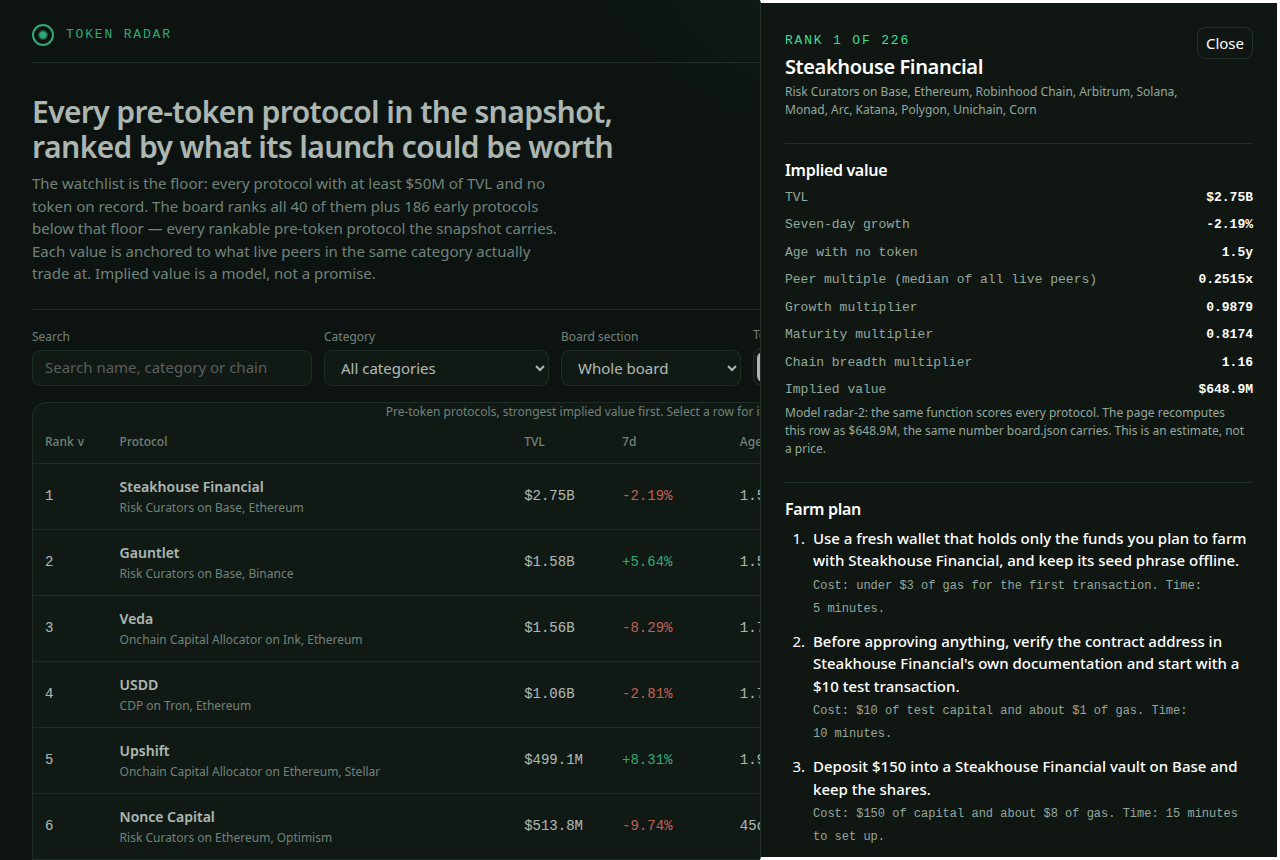
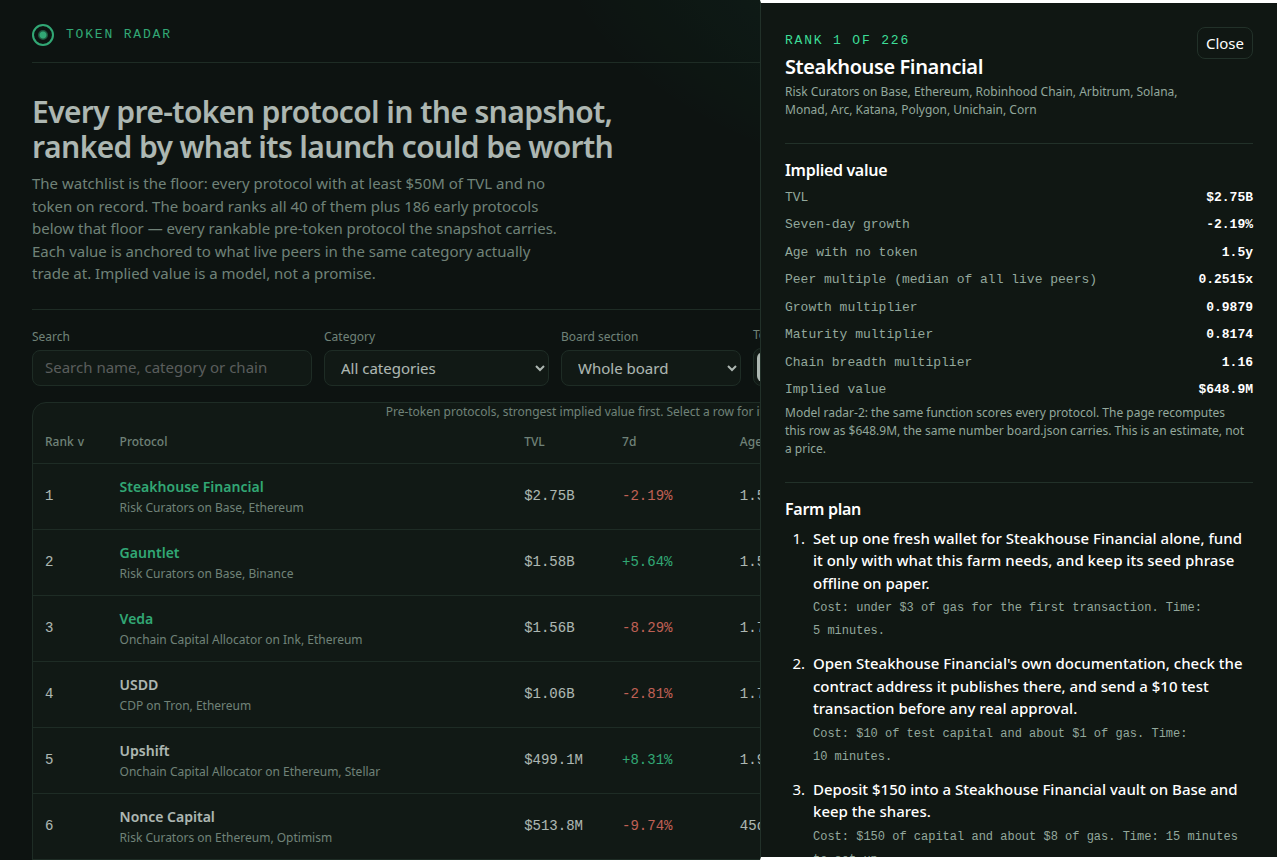
Rework snapshot parsing and board checks into helpers, refresh farm plan wording, add coverage note

diff --git a/lib/model.ts b/lib/model.ts
@@ -425,12 +425,12 @@ export function farmSteps(p: SnapshotProtocol, age: number | null): FarmStep[] {
       };
   return [
     {
-      text: `Use a fresh wallet that holds only the funds you plan to farm with ${p.name}, and keep its seed phrase offline.`,
+      text: `Set up one fresh wallet for ${p.name} alone, fund it only with what this farm needs, and keep its seed phrase offline on paper.`,
       cost: 'under $3 of gas for the first transaction',
       time: '5 minutes',
     },
     {
-      text: `Before approving anything, verify the contract address in ${p.name}'s own documentation and start with a $10 test transaction.`,
+      text: `Open ${p.name}'s own documentation, check the contract address it publishes there, and send a $10 test transaction before any real approval.`,
       cost: '$10 of test capital and about $1 of gas',
       time: '10 minutes',
     },
@@ -446,12 +446,12 @@ export function farmSteps(p: SnapshotProtocol, age: number | null): FarmStep[] {
       time: '10 minutes a week',
     },
     {
-      text: `Hold the position for at least ${hold} days so the activity is counted in more than one snapshot, and check the protocol's points or rewards page every week.`,
+      text: `Keep the position open for at least ${hold} days, across more than one weekly snapshot, and look at the protocol's points or rewards page every week while you wait.`,
       cost: `the $${capital} stays in the position`,
       time: `${hold} days`,
     },
     {
-      text: `When a token or points conversion is announced, claim only from the link ${p.name} itself publishes, then write the wallet, the dates and every transaction in a farm log so you can unwind the position.`,
+      text: `If a token or points conversion is announced, claim only through the link ${p.name} itself publishes, then record the wallet, the dates and every transaction in a farm log so the position can be unwound cleanly.`,
       cost: 'no fee to check, and never pay to claim',
       time: '15 minutes',
     },
@@ -523,6 +523,37 @@ export function buildRadar(snapshot: Snapshot, model: ModelConstants = MODEL): {
   return { board, radar };
 }
 
+/** A string field read leniently: the string itself, or null for anything else. */
+function stringOrNull(value: unknown): string | null {
+  return typeof value === 'string' ? value : null;
+}
+
+/** A numeric field read leniently: a finite number, or null for anything else. */
+function numberOrNull(value: unknown): number | null {
+  return typeof value === 'number' && Number.isFinite(value) ? value : null;
+}
+
+/** One protocol record out of the snapshot's array, with every optional field normalised. */
+function parseProtocol(v: unknown, i: number): SnapshotProtocol {
+  if (typeof v !== 'object' || v === null || Array.isArray(v)) throw new SnapshotError(`snapshot.json's protocol ${i} is not an object`);
+  const p = v as Record<string, unknown>;
+  if (typeof p.slug !== 'string' || typeof p.name !== 'string' || typeof p.tvl_usd !== 'number' || !Number.isFinite(p.tvl_usd)) {
+    throw new SnapshotError(`snapshot.json's protocol ${i} lacks a slug, a name or a TVL`);
+  }
+  return {
+    slug: p.slug,
+    name: p.name,
+    category: stringOrNull(p.category),
+    chains: Array.isArray(p.chains) ? p.chains.filter((c): c is string => typeof c === 'string') : [],
+    tvl_usd: p.tvl_usd,
+    change_7d: numberOrNull(p.change_7d),
+    mcap_usd: numberOrNull(p.mcap_usd),
+    listed_at: stringOrNull(p.listed_at),
+    gecko_id: stringOrNull(p.gecko_id),
+    symbol: stringOrNull(p.symbol),
+  };
+}
+
 /** The snapshot out of a file's text, refused unless it is the shape the model scores. */
 export function parseSnapshot(text: string): Snapshot {
   let raw: unknown;
@@ -538,52 +569,67 @@ export function parseSnapshot(text: string): Snapshot {
   if (typeof o.floor_usd !== 'number' || !Number.isSafeInteger(o.floor_usd) || o.floor_usd <= 0) throw new SnapshotError('snapshot.json has no floor_usd');
   if (!Array.isArray(o.protocols)) throw new SnapshotError('snapshot.json has no protocols array');
   if (!Array.isArray(o.watchlist) || o.watchlist.some((s) => typeof s !== 'string')) throw new SnapshotError('snapshot.json has no watchlist of slugs');
-  const protocols = o.protocols.map((v, i) => {
-    if (typeof v !== 'object' || v === null || Array.isArray(v)) throw new SnapshotError(`snapshot.json's protocol ${i} is not an object`);
-    const p = v as Record<string, unknown>;
-    if (typeof p.slug !== 'string' || typeof p.name !== 'string' || typeof p.tvl_usd !== 'number' || !Number.isFinite(p.tvl_usd)) {
-      throw new SnapshotError(`snapshot.json's protocol ${i} lacks a slug, a name or a TVL`);
-    }
-    return {
-      slug: p.slug,
-      name: p.name,
-      category: typeof p.category === 'string' ? p.category : null,
-      chains: Array.isArray(p.chains) ? p.chains.filter((c): c is string => typeof c === 'string') : [],
-      tvl_usd: p.tvl_usd,
-      change_7d: typeof p.change_7d === 'number' && Number.isFinite(p.change_7d) ? p.change_7d : null,
-      mcap_usd: typeof p.mcap_usd === 'number' && Number.isFinite(p.mcap_usd) ? p.mcap_usd : null,
-      listed_at: typeof p.listed_at === 'string' ? p.listed_at : null,
-      gecko_id: typeof p.gecko_id === 'string' ? p.gecko_id : null,
-      symbol: typeof p.symbol === 'string' ? p.symbol : null,
-    };
-  });
   return {
     as_of: o.as_of,
     source: o.source,
     floor_usd: o.floor_usd,
-    protocols,
+    protocols: o.protocols.map(parseProtocol),
     watchlist: o.watchlist as string[],
   };
 }
 
-/** Why a board is not one the gate will take, or null: coverage, ranks, order, one shared implied value, and farm steps. */
-export function boardIssue(board: BoardRow[], snapshot: Snapshot): string | null {
+/** The coverage issue, if any: every watchlist slug must sit on the board. */
+function coverageIssue(board: BoardRow[], snapshot: Snapshot): string | null {
   const slugs = new Set(board.map((r) => r.slug));
   const missing = snapshot.watchlist.filter((s) => !slugs.has(s));
-  if (missing.length > 0) return `the board misses ${missing.length} watchlist slug${missing.length === 1 ? '' : 's'}: ${missing.slice(0, 5).join(', ')}`;
+  if (missing.length === 0) return null;
+  return `the board misses ${missing.length} watchlist slug${missing.length === 1 ? '' : 's'}: ${missing.slice(0, 5).join(', ')}`;
+}
+
+/** The ranking issue, if any: ranks are exactly 1..n and implied value never rises down the board. */
+function rankingIssue(board: BoardRow[]): string | null {
   const ranks = board.map((r) => r.rank).sort((a, b) => a - b);
   for (let i = 0; i < ranks.length; i++) if (ranks[i] !== i + 1) return `rank ${i + 1} is ${ranks[i]}`;
-  for (let i = 1; i < board.length; i++) if (board[i]!.implied_value_usd > board[i - 1]!.implied_value_usd) return `row ${i + 1} outranks row ${i} on implied value`;
+  for (let i = 1; i < board.length; i++) {
+    if (board[i]!.implied_value_usd > board[i - 1]!.implied_value_usd) return `row ${i + 1} outranks row ${i} on implied value`;
+  }
   if (board.length >= 2 && board[0]!.implied_value_usd === board[board.length - 1]!.implied_value_usd) {
     return `all ${board.length} rows share the same implied value $${board[0]!.implied_value_usd}: a board that ranks nothing by value is not a ranking`;
   }
+  return null;
+}
+
+/** One row's own issue, if any: a sane implied value and a farm plan inside the gate's shape. */
+function rowIssue(r: BoardRow): string | null {
+  const steps = r.farm_steps;
+  if (steps.length < 3 || steps.length > 12) return `${r.slug} has ${steps.length} farm steps`;
+  for (const s of steps) if (s.length < 20 || s.length > 600) return `${r.slug} has a farm step of ${s.length} characters`;
+  if (!Number.isSafeInteger(r.implied_value_usd) || r.implied_value_usd <= 0) return `${r.slug} has implied value ${r.implied_value_usd}`;
+  return null;
+}
+
+/** Why a board is not one the gate will take, or null: coverage first, then the ranking, then each row. */
+export function boardIssue(board: BoardRow[], snapshot: Snapshot): string | null {
+  const coverage = coverageIssue(board, snapshot);
+  if (coverage !== null) return coverage;
+  const ranking = rankingIssue(board);
+  if (ranking !== null) return ranking;
   for (const r of board) {
-    const steps = r.farm_steps;
-    if (steps.length < 3 || steps.length > 12) return `${r.slug} has ${steps.length} farm steps`;
-    for (const s of steps) if (s.length < 20 || s.length > 600) return `${r.slug} has a farm step of ${s.length} characters`;
-    if (!Number.isSafeInteger(r.implied_value_usd) || r.implied_value_usd <= 0) return `${r.slug} has implied value ${r.implied_value_usd}`;
+    const issue = rowIssue(r);
+    if (issue !== null) return issue;
   }
   return null;
+}
+
+/** The headline figures for a finished board and the snapshot it came from. */
+export function summarizeBoard(board: BoardRow[], snapshot: Snapshot): BoardSummary {
+  const watchlist = new Set(snapshot.watchlist);
+  return {
+    watchlist_size: snapshot.watchlist.length,
+    board_size: board.length,
+    early_size: board.filter((r) => !watchlist.has(r.slug)).length,
+    live_size: liveRows(snapshot).length,
+  };
 }
 
 /** A compact data.js: the dashboard's whole dataset as one script, no fetch and no network. */

diff --git a/dashboard/app.js b/dashboard/app.js
@@ -115,13 +115,13 @@
       ? { text: p.name + ' also runs on ' + p.chains[1] + ': repeat the position there with $' + half + ' so the farm is not a single-chain snapshot.', cost: 'about $' + half + ' of extra capital plus bridge and gas fees of about $5', time: '20 minutes' }
       : { text: 'Deepen the ' + chain + ' position once after two weeks: add 25% more capital if the first position settled without issues.', cost: 'about $' + Math.round(capital / 4) + ' of extra capital and $2 of gas', time: '10 minutes' };
     return [
-      { text: 'Use a fresh wallet that holds only the funds you plan to farm with ' + p.name + ', and keep its seed phrase offline.', cost: 'under $3 of gas for the first transaction', time: '5 minutes' },
-      { text: "Before approving anything, verify the contract address in " + p.name + "'s own documentation and start with a $10 test transaction.", cost: '$10 of test capital and about $1 of gas', time: '10 minutes' },
+      { text: 'Set up one fresh wallet for ' + p.name + ' alone, fund it only with what this farm needs, and keep its seed phrase offline on paper.', cost: 'under $3 of gas for the first transaction', time: '5 minutes' },
+      { text: "Open " + p.name + "'s own documentation, check the contract address it publishes there, and send a $10 test transaction before any real approval.", cost: '$10 of test capital and about $1 of gas', time: '10 minutes' },
       { text: actionFor(p, capital, chain), cost: '$' + capital + ' of capital and about $' + (capital >= 150 ? 8 : 4) + ' of gas', time: '15 minutes to set up' },
       breadth,
       { text: weeklyActionFor(p), cost: 'about $2 of gas a week', time: '10 minutes a week' },
-      { text: "Hold the position for at least " + hold + " days so the activity is counted in more than one snapshot, and check the protocol's points or rewards page every week.", cost: 'the $' + capital + ' stays in the position', time: hold + ' days' },
-      { text: 'When a token or points conversion is announced, claim only from the link ' + p.name + ' itself publishes, then write the wallet, the dates and every transaction in a farm log so you can unwind the position.', cost: 'no fee to check, and never pay to claim', time: '15 minutes' }
+      { text: "Keep the position open for at least " + hold + " days, across more than one weekly snapshot, and look at the protocol's points or rewards page every week while you wait.", cost: 'the $' + capital + ' stays in the position', time: hold + ' days' },
+      { text: 'If a token or points conversion is announced, claim only through the link ' + p.name + ' itself publishes, then record the wallet, the dates and every transaction in a farm log so the position can be unwound cleanly.', cost: 'no fee to check, and never pay to claim', time: '15 minutes' }
     ].map(stepText);
   }
 
@@ -370,6 +370,16 @@
     }
   }
 
+  // What the board covers, stated once at the foot of the page: the watchlist is complete by
+  // construction, and the early rows are everything rankable below its floor, not a sample.
+  function coverageNote() {
+    return el('section', { class: 'panel model' },
+      el('h2', { text: 'Coverage' }),
+      el('p', { class: 'sub', text: 'The snapshot names ' + DATA.watchlist_size + ' watchlist protocols; all ' + DATA.watchlist_size + ' are ranked above. Below the $' + Math.round(DATA.floor_usd / 1e6) + 'M floor the snapshot carries ' + DATA.early_size + ' more pre-token protocols that can be ranked — not an exchange, not a versioned pool of another protocol — and every one of them is on this board too. Protocols that already trade are never ranked here: their market cap is a fact, and the model only prices what has no price yet.' }),
+      el('p', { class: 'sub', text: 'Press / anywhere on the page to jump to the search box. Select any row for its model breakdown and farm plan.' })
+    );
+  }
+
   function render() {
     app.textContent = '';
     var shell = el('div', { class: 'shell' });
@@ -378,6 +388,7 @@
     shell.appendChild(controls());
     shell.appendChild(state.tab === 'pre-token' ? boardTable() : liveTable());
     if (state.tab === 'pre-token') shell.appendChild(modelPanel());
+    if (state.tab === 'pre-token') shell.appendChild(coverageNote());
     app.appendChild(shell);
     app.setAttribute('aria-busy', 'false');
     if (!dialog.isConnected) app.appendChild(dialog);
@@ -388,5 +399,9 @@
   render();
   window.addEventListener('keydown', function (e) {
     if (e.key === 'Escape' && dialog.open) dialog.close();
+    if (e.key === '/' && !dialog.open) {
+      var q = document.getElementById('q');
+      if (q && document.activeElement !== q) { e.preventDefault(); q.focus(); }
+    }
   });
 })();

diff --git a/main.ts b/main.ts
@@ -19,7 +19,7 @@
 import { copyFileSync, existsSync, mkdirSync, readFileSync, readdirSync, statSync, writeFileSync } from 'node:fs';
 import { join } from 'node:path';
 import { fileURLToPath } from 'node:url';
-import { boardIssue, buildRadar, dataScript, parseSnapshot } from './lib/model.ts';
+import { boardIssue, buildRadar, dataScript, parseSnapshot, summarizeBoard } from './lib/model.ts';
 import { buildDossier } from './vendor/makefun-board.ts';
 
 const here = fileURLToPath(new URL('.', import.meta.url));
@@ -88,7 +88,8 @@ for (const name of shots) {
 // The dossier is written last: the scorer rebuilds it from this /output and compares bytes.
 writeFileSync(join(out, 'dossier.json'), buildDossier(out, { text_max_bytes: TEXT_MAX_BYTES, screenshots: SCREENSHOT_CAPS, dashboard: { max_files: 400, max_bytes: 4_194_304 } }));
 
+const summary = summarizeBoard(board, snapshot);
 process.stdout.write(
-  `token radar: ${snapshot.protocols.length} protocols, ${snapshot.watchlist.length} on the watchlist, ${board.length} rows scored (${radar.early_size} early, ${radar.live_size} live set aside)\n` +
+  `token radar: ${snapshot.protocols.length} protocols, ${summary.watchlist_size} on the watchlist, ${summary.board_size} rows scored (${summary.early_size} early, ${summary.live_size} live set aside)\n` +
     `token radar: wrote ${join(out, 'board.json')}, ${join(out, 'data.js')}, ${join(out, 'dashboard')} (3 files), ${join(out, 'screenshots')} (${shots.length} images) and ${join(out, 'dossier.json')}\n`,
 );

diff --git a/dashboard/app.css b/dashboard/app.css
@@ -139,6 +139,21 @@ tbody tr[data-selected="true"] { background: color-mix(in srgb, var(--accent) 8%
 .steps b { display: block; font-weight: 500; }
 .cost { color: var(--muted); font-size: 12px; font-family: var(--font-num); }
 
+/* The radar's own touches: a sweep highlight on the first rows of the current view, a drawer that
+   slides in, and small reading comforts that cost no extra palette. */
+::selection { background: rgba(61, 220, 151, 0.35); }
+tbody tr:nth-child(-n+3) .name b { color: var(--accent); }
+tbody tr:focus-visible { outline: 2px solid var(--accent); outline-offset: -2px; }
+.detail { scrollbar-width: thin; scrollbar-color: var(--border) transparent; }
+.detail::-webkit-scrollbar { width: 8px; }
+.detail::-webkit-scrollbar-thumb { background: var(--border); border-radius: 4px; }
+@keyframes sweep-in {
+  from { transform: translateX(24px); opacity: 0.4; }
+  to { transform: translateX(0); opacity: 1; }
+}
+.detail[open] { animation: sweep-in 180ms cubic-bezier(0, 0, 0.2, 1); }
+.formula { white-space: pre-line; }
+
 @media (max-width: 900px) {
   .shell { padding: var(--step-4); }
   .lede { grid-template-columns: 1fr; gap: var(--step-4); }

diff --git a/dashboard/index.html b/dashboard/index.html
@@ -3,6 +3,8 @@
 <head>
 <meta charset="utf-8">
 <meta name="viewport" content="width=device-width, initial-scale=1">
+<meta name="description" content="Token Radar: every pre-token protocol in the snapshot, ranked by an implied launch value anchored to live peer multiples, with a farm plan for each.">
+<meta name="color-scheme" content="dark">
 <title>Token Radar: pre-token protocols ranked by implied value</title>
 <link rel="stylesheet" href="app.css">
 </head>
